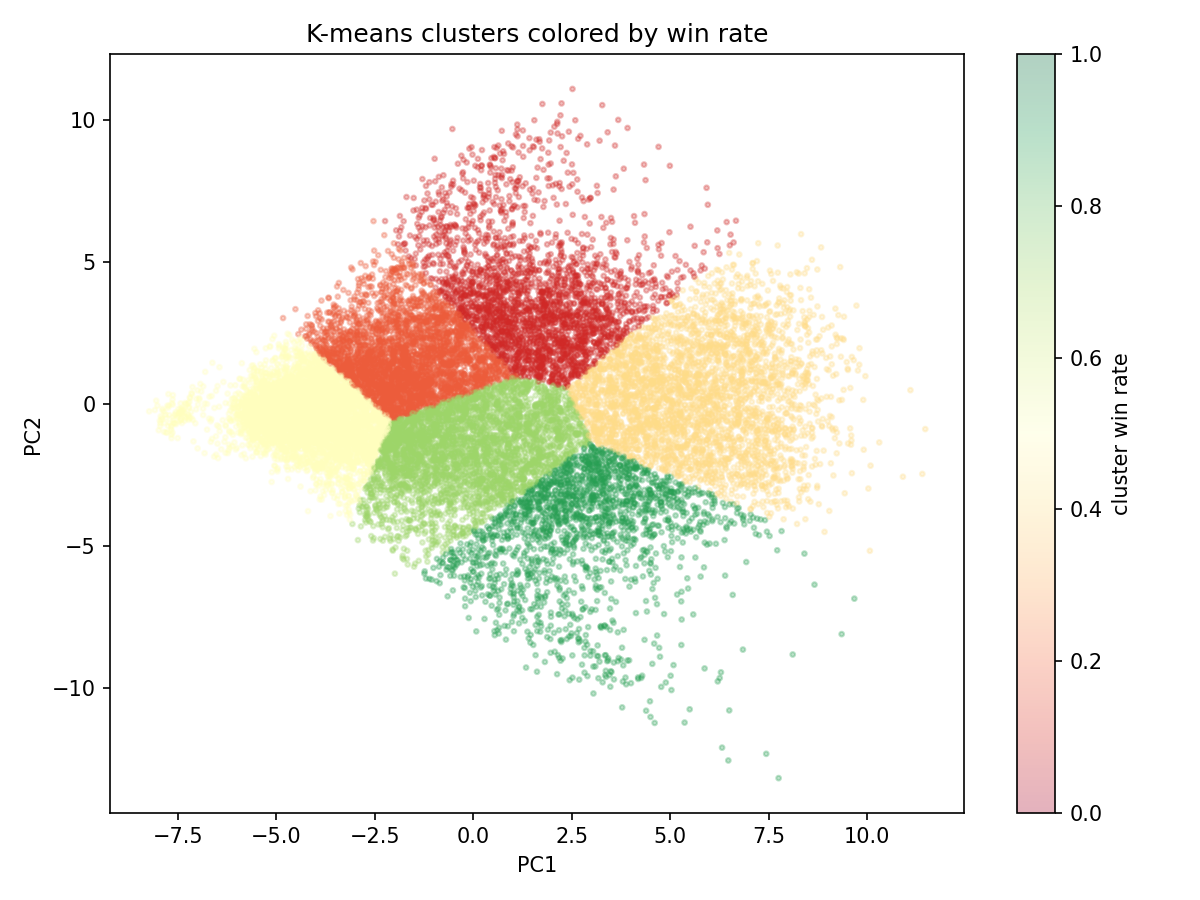
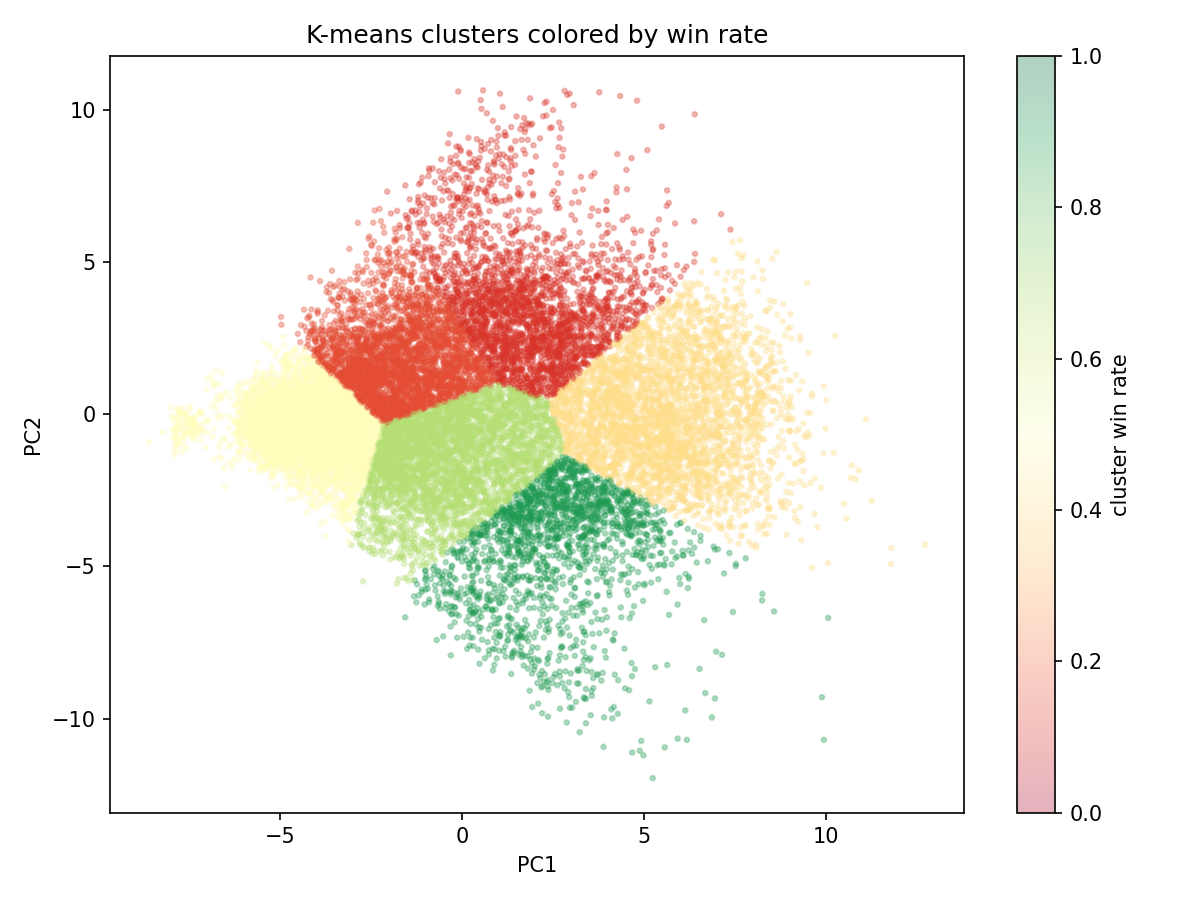
Figure generation

diff --git a/figures.py b/figures.py
@@ -1,0 +1,317 @@
+"""figures.py — JSON->PDF figure regenerator for the CS229 report.
+
+Reads results/eval/offline.json and results/eval/online.json and writes three
+PDFs to results/figures/:
+
+    fig02_accuracy.pdf  — FIG-02 accuracy by VP bucket (LR vs GBT × mode)
+    fig07_online.pdf    — FIG-07 online win rates (agent × baseline)
+    fig_roc.pdf         — FIG-11 ROC overlay for unified LR vs GBT
+
+Usage:
+    uv run python figures.py
+"""
+from __future__ import annotations
+
+import matplotlib
+matplotlib.use("Agg")
+import matplotlib.pyplot as plt
+
+import json
+import numpy as np
+from datetime import datetime, timezone
+from pathlib import Path
+
+# Fixed CreationDate so consecutive runs produce byte-identical PDFs.
+# matplotlib's PDF backend embeds a timestamp by default; pinning it
+# removes the only non-deterministic element in the output.
+_PDF_CREATION_DATE = datetime(2024, 1, 1, tzinfo=timezone.utc)
+
+# ---------------------------------------------------------------------------
+# Module-level constants
+# ---------------------------------------------------------------------------
+
+OFFLINE_JSON = Path("results/eval/offline.json")
+ONLINE_JSON  = Path("results/eval/online.json")
+RESULTS_DIR  = Path("results/figures")
+
+BUCKETS = [
+    "vp_02-04",
+    "vp_04-06",
+    "vp_06-08",
+    "vp_08-10",
+    "vp_10-12",
+    "vp_12-15",
+    "vp_15-15",
+]
+
+AGENTS = ["lr-unified", "lr-per_bucket", "xgb-unified", "xgb-per_bucket"]
+
+BASELINES = [
+    "RandomPlayer",
+    "WeightedRandomPlayer",
+    "VictoryPointPlayer",
+    "AlphaBetaPlayer",
+]
+
+# ---------------------------------------------------------------------------
+# Data loaders
+# ---------------------------------------------------------------------------
+
+
+def load_offline() -> dict:
+    """Load offline.json, hard-failing with a clear message if missing."""
+    if not OFFLINE_JSON.exists():
+        raise FileNotFoundError(
+            f"{OFFLINE_JSON} missing — run `uv run python eval.py` first"
+        )
+    return json.loads(OFFLINE_JSON.read_text())
+
+
+def load_online() -> dict:
+    """Load online.json, hard-failing with a clear message if missing."""
+    if not ONLINE_JSON.exists():
+        raise FileNotFoundError(
+            f"{ONLINE_JSON} missing — run `uv run python eval_online.py` first"
+        )
+    return json.loads(ONLINE_JSON.read_text())
+
+
+def get_cell(
+    offline: dict, estimator: str, bucket_mode: str, bucket: str
+) -> dict | None:
+    """Return the first cell matching (estimator, bucket_mode, bucket), or None."""
+    for cell in offline["cells"]:
+        if (
+            cell["estimator"] == estimator
+            and cell["bucket_mode"] == bucket_mode
+            and cell["bucket"] == bucket
+        ):
+            return cell
+    return None
+
+
+# ---------------------------------------------------------------------------
+# Figure functions
+# ---------------------------------------------------------------------------
+
+
+def fig02_accuracy(offline: dict) -> Path:
+    """FIG-02: grouped bar chart — accuracy by VP bucket, LR vs GBT × mode.
+
+    Four series × seven buckets.  Asymmetric CI error bars from acc_ci.
+    Per-bucket N annotated once below the x-axis (first series only).
+    """
+    series = [
+        ("lr",  "per_bucket",     "LR per-bucket"),
+        ("lr",  "unified_sliced", "LR unified-sliced"),
+        ("gbt", "per_bucket",     "GBT per-bucket"),
+        ("gbt", "unified_sliced", "GBT unified-sliced"),
+    ]
+
+    K = len(series)
+    width = 0.8 / K
+    x = np.arange(len(BUCKETS))
+
+    fig, ax = plt.subplots(figsize=(9, 5))
+
+    for k, (estimator, bucket_mode, label) in enumerate(series):
+        vals = []
+        lo_errs = []
+        hi_errs = []
+        ns = []
+
+        for bucket in BUCKETS:
+            cell = get_cell(offline, estimator, bucket_mode, bucket)
+            if cell is None:
+                vals.append(np.nan)
+                lo_errs.append(0)
+                hi_errs.append(0)
+                ns.append(0)
+            else:
+                vals.append(cell["accuracy"])
+                lo_errs.append(max(0, cell["accuracy"] - cell["acc_ci"][0]))
+                hi_errs.append(max(0, cell["acc_ci"][1] - cell["accuracy"]))
+                ns.append(cell["n_snapshots"])
+
+        offset = (k - (K - 1) / 2) * width
+        ax.bar(
+            x + offset,
+            vals,
+            width,
+            yerr=[lo_errs, hi_errs],
+            capsize=3,
+            label=label,
+        )
+
+        # Annotate per-bucket N once (first series only) — placed just inside
+        # the top of the axes area (y=0.97 axes fraction, va='top') so labels
+        # sit below the title and above the topmost bars/CI whiskers.
+        # Uses get_xaxis_transform(): x in data coords, y in axes fraction.
+        if k == 0:
+            for xi, n in zip(x, ns):
+                ax.text(
+                    xi,
+                    0.97,
+                    f"N={n:,}",
+                    ha="center",
+                    va="top",
+                    fontsize=7,
+                    transform=ax.get_xaxis_transform(),
+                )
+
+    ax.set_xticks(x)
+    ax.set_xticklabels(
+        [b.removeprefix("vp_") for b in BUCKETS],
+        rotation=0,
+        ha="center",
+        fontsize=8,
+    )
+    ax.set_xlabel("VP stage")
+    ax.set_ylabel("Test accuracy")
+    ax.set_title(
+        "Accuracy by VP bucket (LR vs GBT × per-bucket vs unified-sliced)"
+    )
+    ax.legend(loc="lower right", fontsize=8)
+    ax.set_ylim(0.5, 1.05)
+    fig.tight_layout()
+
+    out = RESULTS_DIR / "fig02_accuracy.pdf"
+    fig.savefig(
+        out, format="pdf", bbox_inches="tight",
+        metadata={"CreationDate": _PDF_CREATION_DATE},
+    )
+    plt.close(fig)
+    return out
+
+
+def fig07_online(online: dict) -> Path:
+    """FIG-07: grouped bar chart — online win rates, agent × baseline.
+
+    Four agents × four baselines.  Wilson 95% CI error bars.
+    Per-baseline n_resolved annotated once below the x-axis (first agent).
+    Dashed gray 0.5 reference line.
+    """
+    K = len(AGENTS)
+    width = 0.8 / K
+    x = np.arange(len(BASELINES))
+
+    fig, ax = plt.subplots(figsize=(9, 5))
+
+    for k, agent in enumerate(AGENTS):
+        vals = []
+        lo_errs = []
+        hi_errs = []
+        ns = []
+
+        for baseline in BASELINES:
+            cell = online[agent][baseline]
+            vals.append(cell["win_rate"])
+            lo_errs.append(max(0, cell["win_rate"] - cell["wilson_lo"]))
+            hi_errs.append(max(0, cell["wilson_hi"] - cell["win_rate"]))
+            ns.append(cell["n_resolved"])
+
+        offset = (k - (K - 1) / 2) * width
+        ax.bar(
+            x + offset,
+            vals,
+            width,
+            yerr=[lo_errs, hi_errs],
+            capsize=3,
+            label=agent,
+        )
+
+        # Annotate per-baseline n_resolved once (first agent only) — placed
+        # just inside the top of the axes area (y=0.97 axes fraction, va='top')
+        # so labels sit below the title and above the topmost bars/CI whiskers.
+        # Uses get_xaxis_transform(): x in data coords, y in axes fraction.
+        if k == 0:
+            for xi, n in zip(x, ns):
+                ax.text(
+                    xi,
+                    0.97,
+                    f"N_res={n}",
+                    ha="center",
+                    va="top",
+                    fontsize=7,
+                    transform=ax.get_xaxis_transform(),
+                )
+
+    ax.axhline(0.5, color="gray", linestyle="--", linewidth=0.7)
+    ax.set_xticks(x)
+    ax.set_xticklabels(
+        [b.replace("Player", "") for b in BASELINES],
+        rotation=0,
+        ha="center",
+        fontsize=8,
+    )
+    ax.set_ylabel("Win rate (Wilson 95% CI)")
+    ax.set_title(
+        "Online win rate per (agent × baseline), 600 games balanced seats"
+    )
+    # Move legend below the axes so it doesn't occlude the rightmost N label.
+    # Four agents fit in one row; bottom margin enlarged to avoid clipping.
+    ax.legend(
+        loc="upper center",
+        bbox_to_anchor=(0.5, -0.12),
+        ncol=4,
+        frameon=False,
+        fontsize=8,
+    )
+    ax.set_ylim(0, 1.05)
+    fig.subplots_adjust(bottom=0.22)
+
+    out = RESULTS_DIR / "fig07_online.pdf"
+    fig.savefig(
+        out, format="pdf", bbox_inches="tight",
+        metadata={"CreationDate": _PDF_CREATION_DATE},
+    )
+    plt.close(fig)
+    return out
+
+
+def fig_roc(offline: dict) -> Path:
+    """FIG-11 (ROC half): unified LR vs GBT ROC overlay with AUC in legend."""
+    fig, ax = plt.subplots(figsize=(5, 5))
+
+    for est, label in [("lr", "LR-unified"), ("gbt", "GBT-unified")]:
+        cell = get_cell(offline, est, "unified", "all")
+        fpr = cell["roc"]["fpr"]
+        tpr = cell["roc"]["tpr"]
+        auc = cell["auc"]
+        ax.plot(fpr, tpr, label=f"{label} (AUC = {auc:.3f})")
+
+    ax.plot([0, 1], [0, 1], color="gray", linestyle="--", linewidth=0.7)
+    ax.set_xlabel("False positive rate")
+    ax.set_ylabel("True positive rate")
+    ax.set_title("ROC: unified LR vs GBT (test split)")
+    ax.legend(loc="lower right", fontsize=9)
+
+    out = RESULTS_DIR / "fig_roc.pdf"
+    fig.savefig(
+        out, format="pdf", bbox_inches="tight",
+        metadata={"CreationDate": _PDF_CREATION_DATE},
+    )
+    plt.close(fig)
+    return out
+
+
+# ---------------------------------------------------------------------------
+# Entry point
+# ---------------------------------------------------------------------------
+
+
+def main() -> None:
+    RESULTS_DIR.mkdir(parents=True, exist_ok=True)
+    offline = load_offline()
+    online  = load_online()
+    paths = [
+        fig02_accuracy(offline),
+        fig07_online(online),
+        fig_roc(offline),
+    ]
+    for p in paths:
+        print(f"wrote {p}")
+
+
+if __name__ == "__main__":
+    main()